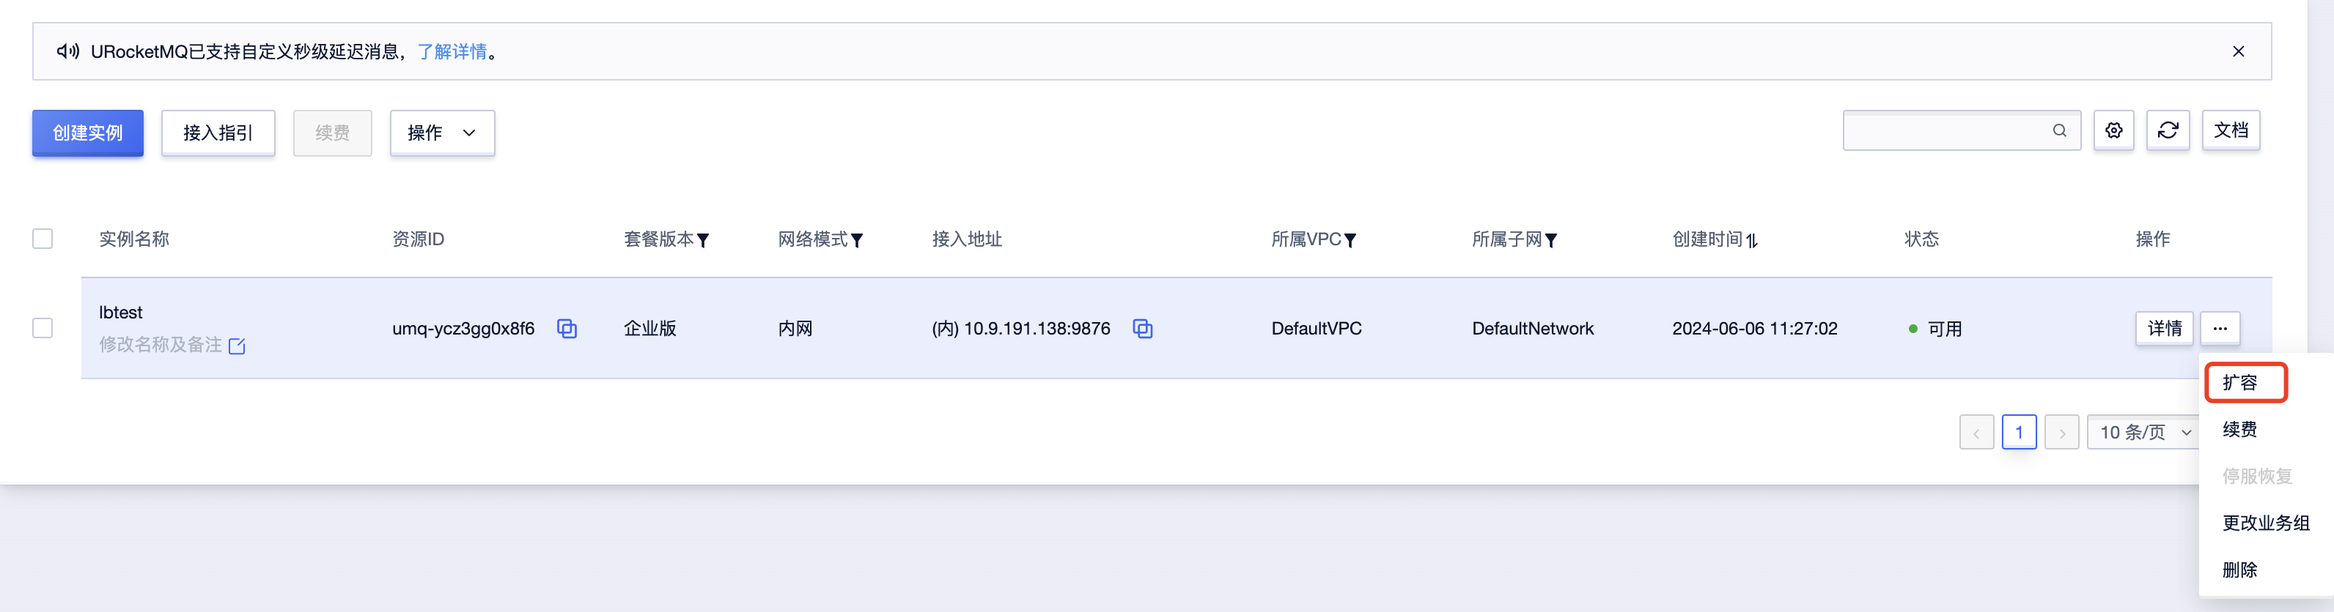
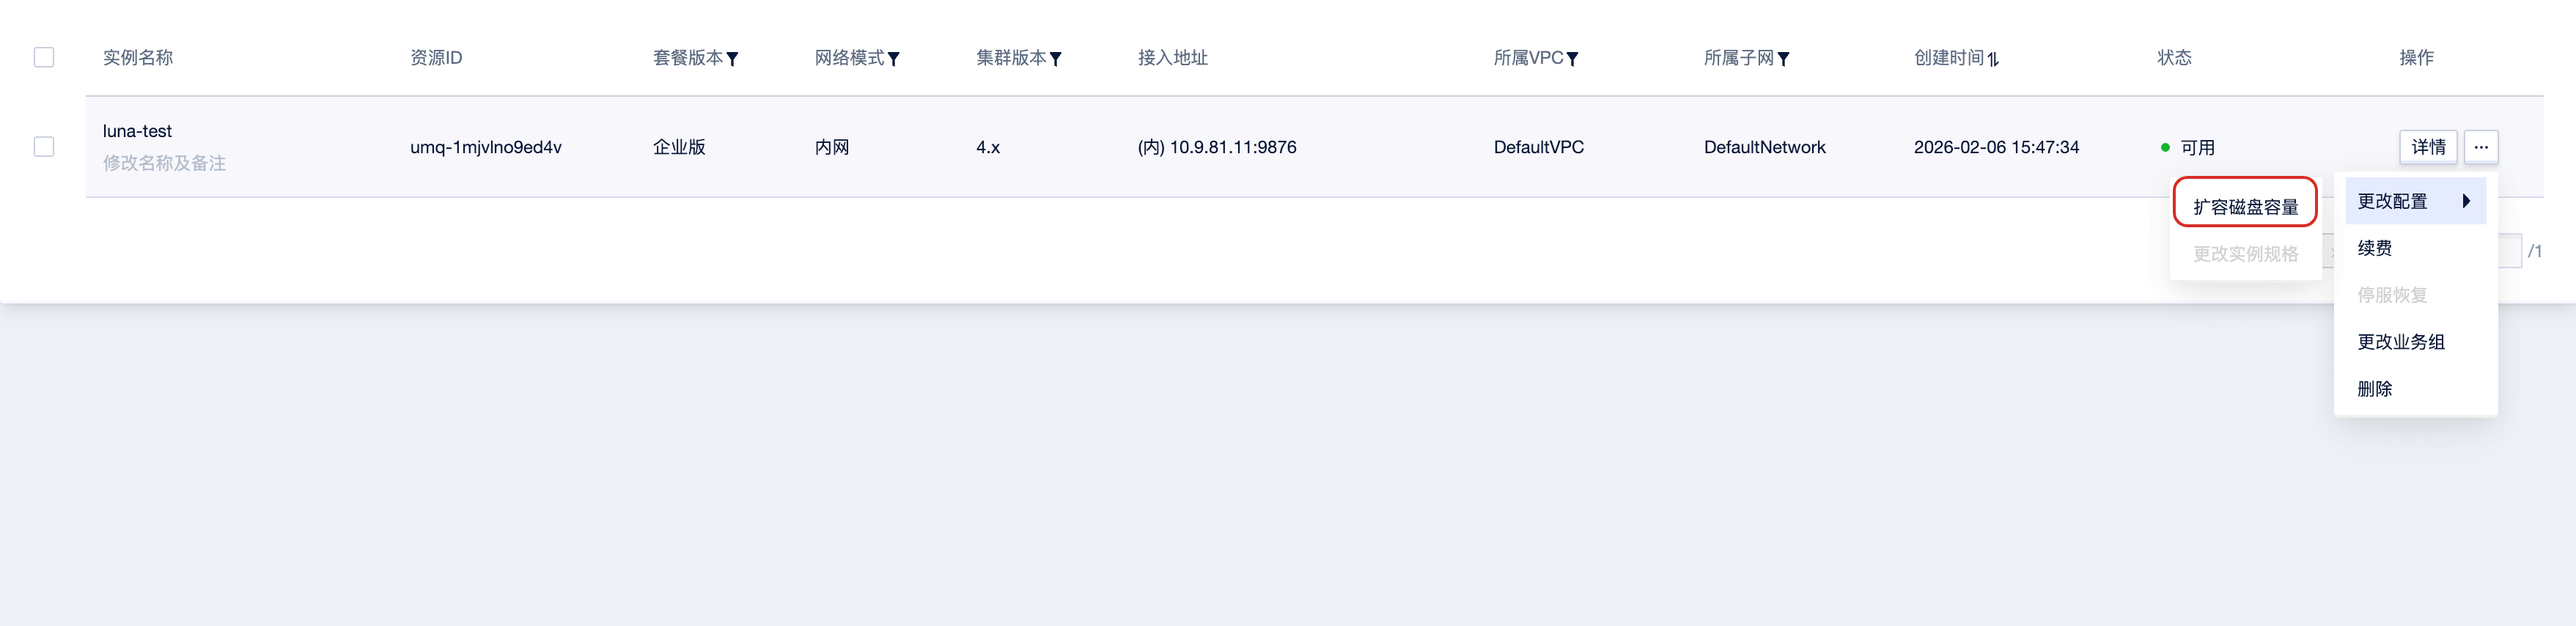
docs(instance): 添加实例规格变更文档
- 添加实例规格支持在线扩容的说明
- 添加扩容操作界面截图和操作步骤
- 添加注意事项包括4.x版本不支持和扩容限制说明
- 说明扩容时不可进行其他破坏性操作

diff --git a/guide/instance/upgrade.md b/guide/instance/upgrade.md
@@ -1,0 +1,20 @@
+# 实例规格变更
+
+实例规格支持在线扩容，可根据业务需要使用。
+
+选择指定实例，在操作列选择“扩容”按钮操作，如下:
+
+![instance_upgrade_button](/rocketmq/images/service_upgrade_button.png)
+
+根据业务需要调整至目标消息存储值。
+
+![instance_upgrade](/rocketmq/images/service_upgrade.png)
+
+
+##  注意
+
+- 4.x 暂不支持实例规格变更
+
+- 扩容可选的的实例规格会随 commitlog 存储占比增大而减少
+
+- 当实例规格变更时，不支持对实例进行其余破坏性操作
